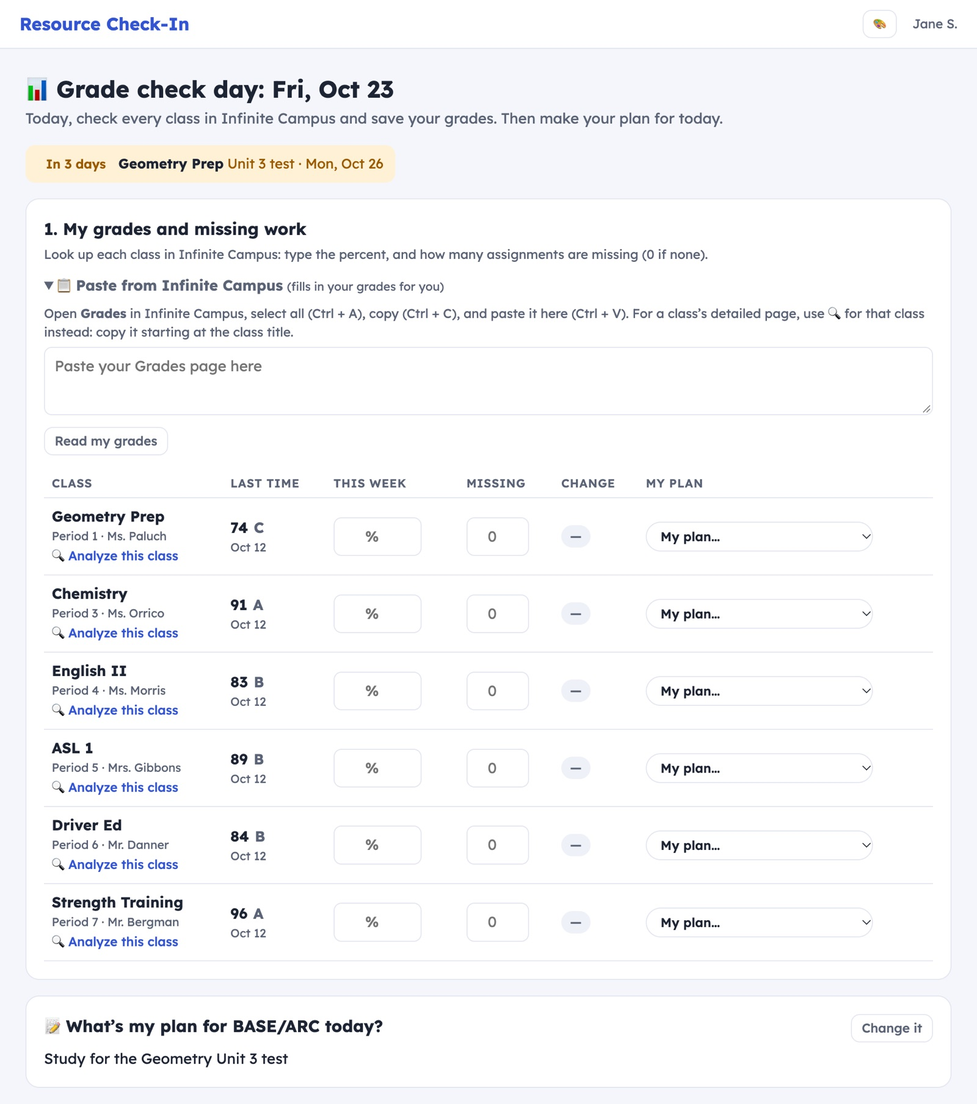
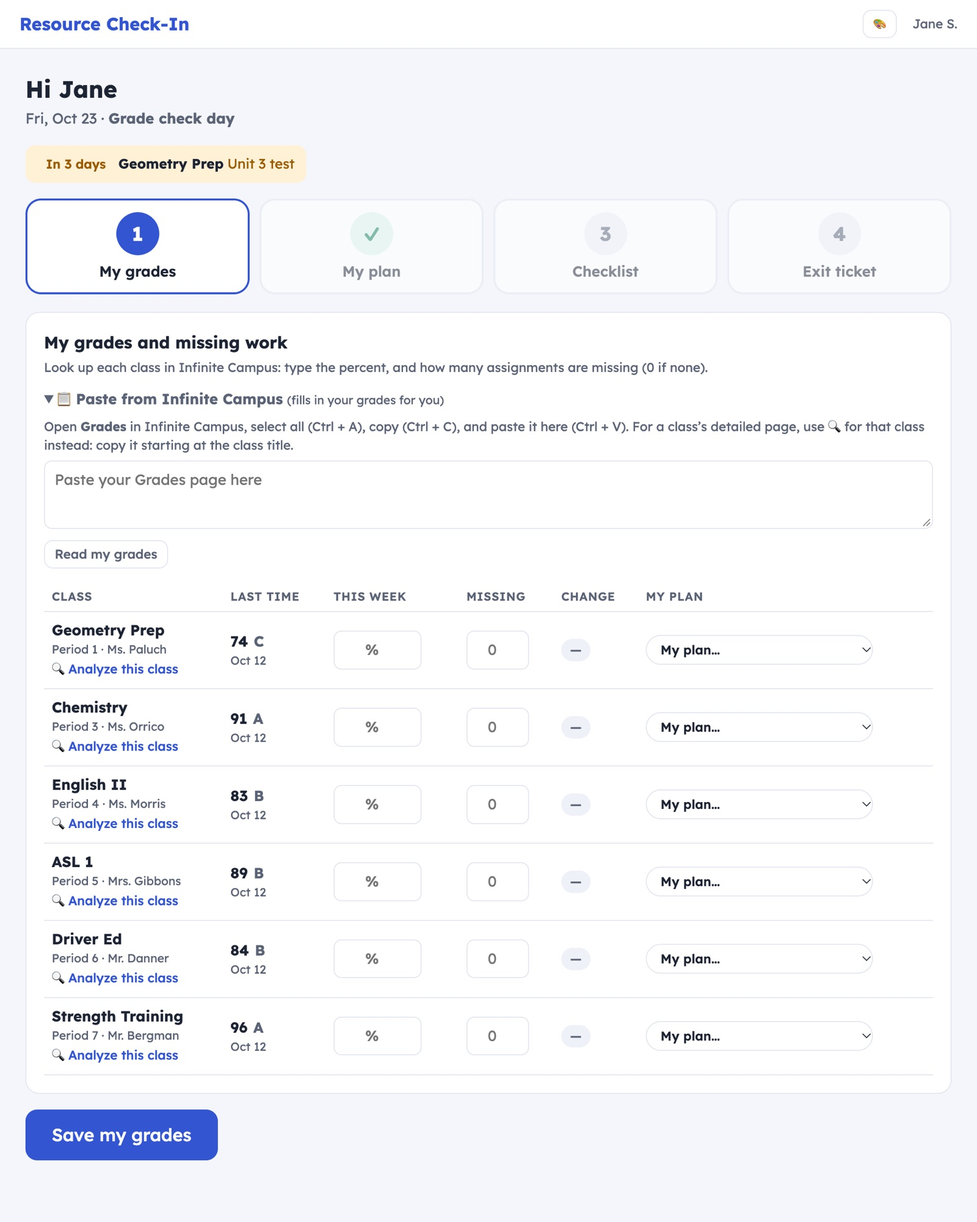
Resource Check-In showcase: step-by-step check-in, demo 1.79

diff --git a/resource/demo.html b/resource/demo.html
@@ -100,6 +100,21 @@ td small, .small { display: block; color: var(--soft); font-size: 12px; }
 .soon { display: flex; gap: 8px; flex-wrap: wrap; margin-bottom: 16px; }
 .soon .t { background: var(--warn-soft); color: var(--warn); border-radius: 10px; padding: 8px 12px; font-size: 14px; }
 .soon .t b { color: var(--ink); }
+.steps { display: flex; gap: 10px; margin: 6px 0 18px; }
+.stepb { flex: 1; min-width: 0; background: var(--card); border: 2px solid var(--line); border-radius: 16px; padding: 12px 6px 10px; text-align: center; cursor: pointer; font: inherit; color: var(--ink); }
+.stepb .n { width: 44px; height: 44px; border-radius: 50%; margin: 0 auto 6px; display: flex; align-items: center; justify-content: center; font-size: 20px; font-weight: 700; background: var(--chip); color: var(--soft); }
+.stepb .l { display: block; font-size: 15px; font-weight: 600; }
+.stepb.on { border-color: var(--brand); } .stepb.on .n { background: var(--brand); color: var(--onbrand, #fff); }
+.stepb.done .n { background: var(--up-soft); color: var(--up); } .stepb.lock { opacity: .5; }
+.btn.big { font-size: 18px; padding: 12px 26px; border-radius: 12px; }
+.stuffh { margin: 26px 0 10px; color: var(--soft); font-size: 15px; }
+.stiles { display: grid; grid-template-columns: repeat(auto-fill, minmax(165px, 1fr)); gap: 10px; }
+.stile { background: var(--card); border: 1px solid var(--line); border-radius: 12px; padding: 12px 14px; text-align: left; cursor: pointer; font: inherit; color: var(--ink); }
+.stile b { display: block; font-size: 15px; } .stile span { display: block; font-size: 13px; color: var(--soft); margin-top: 2px; }
+.stile.attn { border-color: var(--warn); background: var(--warn-soft); } .stile.attn span { color: var(--warn); }
+.stile.open { border: 2px solid var(--brand); }
+.tilepanel { margin-top: 12px; }
+@media (max-width: 560px) { .stepb .l { font-size: 12px; } .stepb .n { width: 36px; height: 36px; font-size: 17px; } .steps { gap: 6px; } .stiles { grid-template-columns: 1fr 1fr; } .ckrow { flex-wrap: wrap; } }
 .savebar { position: fixed; left: 0; right: 0; bottom: 0; background: var(--card); border-top: 1px solid var(--line); padding: 12px 16px; display: flex; justify-content: center; gap: 14px; align-items: center; z-index: 4; }
 .status { color: var(--soft); font-size: 14px; }
 .status.dirty { color: var(--warn); }
@@ -395,7 +410,7 @@ tr.lowrow td { background: var(--chip); border-bottom: 1px solid var(--line); }
    plan how they'll use resource time, and list upcoming tests. The teacher sees everyone.
    A Google Sheet + Apps Script web app. How to set it up: SETUP.md. */
 
-var VERSION = '1.78';
+var VERSION = '1.79';
 
 // Data tabs and their columns. Dates are stored as text (yyyy-mm-dd).
 var TABS = {
@@ -906,7 +921,7 @@ function api_saveProfile(p) {
       if (!day_(f.rows[f.i][SC.firstVisit])) stuSet_(f.i, 'firstVisit', today_());
       if (bd !== null && bd !== bdayCell_(f.rows[f.i][SC.bday])) { stuSet_(f.i, 'bday', bd); stuSet_(f.i, 'seen', bd ? bdayInitSeen_(bd) : ''); }
     }
-    return studentData_(email);
+    return fresh_(email);
   });
 }
 
@@ -918,7 +933,7 @@ function api_saveClasses(list) {
     saveClasses_(email, list);
     var f = stuFind_(email);
     if (f.i >= 0) stuSet_(f.i, 'checked', today_());   // they've checked their schedule
-    return studentData_(email);
+    return fresh_(email);
   });
 }
 
@@ -939,7 +954,7 @@ function api_teacherSaveGrades(email, g) {
     // a pasted class detail page: the same analysis and retake list a student's own paste saves
     var an = g.analyses || {};
     Object.keys(an).slice(0, 12).forEach(function (cls) { if (an[cls] && an[cls].summary) saveRetakes_(email, cls, an[cls].list || [], an[cls].summary); });
-    return studentData_(email);
+    return fresh_(email);
   });
 }
 
@@ -947,7 +962,7 @@ function api_teacherSaveGrades(email, g) {
 function api_teacherSaveClasses(email, list) {
   teacherOnly_();
   email = low_(email);
-  return locked_(function () { saveClasses_(email, list, myEmail_() + ' ' + today_()); return studentData_(email); });
+  return locked_(function () { saveClasses_(email, list, myEmail_() + ' ' + today_()); return fresh_(email); });
 }
 
 // "ASL Expressive Language (1); Algebra II Prep (2); …" for the Students tab's Enrollments cell.
@@ -1010,7 +1025,7 @@ function api_saveCheckin(c) {
       if (j >= 0) sheet_('Plans').getRange(j + 2, 4).setValue(steps_(c.lastSteps));
     }
     touch_(email);
-    return studentData_(email);
+    return fresh_(email);
   });
 }
 
@@ -1035,7 +1050,7 @@ function api_saveTest(t) {
     var rows = rows_('Tests'), i = t.id ? find_(rows, function (r) { return String(r[0]) === String(t.id) && low_(r[1]) === email; }) : -1;
     if (i >= 0) { row[6] = rows[i][6] === true; row[7] = rows[i][7]; sheet_('Tests').getRange(i + 2, 1, 1, row.length).setValues([row]); }
     else sheet_('Tests').appendRow(row);
-    return studentData_(email);
+    return fresh_(email);
   });
 }
 
@@ -1044,7 +1059,7 @@ function api_testDone(id, done) {
   return locked_(function () {
     var rows = rows_('Tests'), i = find_(rows, function (r) { return String(r[0]) === String(id) && low_(r[1]) === email; });
     if (i >= 0) sheet_('Tests').getRange(i + 2, 7).setValue(!!done);
-    return studentData_(email);
+    return fresh_(email);
   });
 }
 
@@ -1052,7 +1067,7 @@ function api_deleteTest(id) {
   var email = need_();
   return locked_(function () {
     rewrite_('Tests', function (r) { return !(String(r[0]) === String(id) && low_(r[1]) === email); }, []);
-    return studentData_(email);
+    return fresh_(email);
   });
 }
 
@@ -2734,7 +2749,7 @@ function api_confirmProfile(p) {
     stuSet_(f.i, 'cemail', String(p.counselorEmail || '').trim().toLowerCase());
     if (p.caseMgr) { stuSet_(f.i, 'caseMgr', clean_(p.caseMgr, 80)); stuSet_(f.i, 'caseMgrEmail', String(p.caseMgrEmail).trim().toLowerCase()); }
     stuSet_(f.i, 'profileOk', today_());
-    return studentData_(email);
+    return fresh_(email);
   });
 }
 
@@ -2872,7 +2887,7 @@ function api_flagDayPlan(email, date, flag, note) {
     var cells = [flag ? 'Yes' : '', flag ? myEmail_() + ' ' + stamp_() : '', flag ? clean_(note, 300) : ''];
     if (i >= 0) sheet_('Daily plans').getRange(i + 2, 5, 1, 3).setValues([cells]);
     else if (flag) sheet_('Daily plans').appendRow([date, email, '', '', cells[0], cells[1], cells[2]]);
-    return studentData_(email);
+    return fresh_(email);
   });
 }
 // today's plan and the recent ones (newest first), with how often the plan was followed this semester
@@ -3281,11 +3296,19 @@ function teacherOnly_() { if (!isTeacher_(myEmail_())) throw new Error('Only tea
 function myEmail_() { try { return low_(Session.getActiveUser().getEmail()); } catch (e) { return ''; } }
 function need_() { var e = myEmail_(); if (!e) throw new Error('Please sign in with your school Google account.'); return e; }
 
+// Speed (1.79): a save that ends with fresh_(email) gets the student's whole page back AFTER the lock is let go, so the next
+// student's save doesn't wait for it, and each tab is read once (it used to take about 48 reads, inside the lock).
 function locked_(fn) {
-  var lock = LockService.getScriptLock();
+  var lock = LockService.getScriptLock(), out;
   lock.waitLock(20000);
-  try { return fn(); } finally { lock.releaseLock(); }
+  try { out = fn(); } finally { lock.releaseLock(); }
+  if (out && out.__fresh) {
+    var had = ROWS_MEMO; ROWS_MEMO = {};          // read after the writes, never from rows read before them
+    try { return studentData_(out.__fresh); } finally { ROWS_MEMO = had; }
+  }
+  return out;
 }
+function fresh_(email) { return { __fresh: email }; }
 
 function ss_() { return SpreadsheetApp.getActiveSpreadsheet(); }
 function sheet_(name) { var sh = ss_().getSheetByName(name); if (!sh) { setup_(); sh = ss_().getSheetByName(name); } return sh; }
@@ -3478,6 +3501,7 @@ function weekOf_(s) { var p = s.split('-'), dow = new Date(Date.UTC(+p[0], +p[1]
   if (/checkday=1|nothing=1/.test(location.search)) window.isSchoolDay = function () { return true; };          // the demo works on a weekend too
   if (/checkday=1/.test(location.search)) setTimeout(function () { B.checkDay = B.today; go('checkin'); }, 1500);
   if (/nothing=1/.test(location.search)) setTimeout(function () { DP_EDIT = true; DP_NONE = 3; drawCheckin(); $('dpNone').scrollIntoView(); window.scrollBy(0, -200); }, 2500);
+  var tq = (location.search.match(/tile=(\w+)/) || [])[1]; if (tq) setTimeout(function () { tileOpen(tq); }, 2200);
   if (/teopen=1/.test(location.search)) setTimeout(function () { teOpen(); window.scrollTo(0, 300); }, 5000);
   window.google = { script: { run: (function mk(ok, no) {
     return new Proxy({}, { get: function (t, k) {
@@ -3644,7 +3668,7 @@ function go(v) {
 function drawNav() {
   var items = MODE === 'teacher'
     ? [['overview', 'Overview'], ['upcoming', 'Upcoming tests'], ['retakes', 'Retakes'], ['who', '🔎 Show me who'], ['seating', '🪑 Seating'], ['photos', 'Students & photos'], ['settings', '⚙ Settings'], ['me', 'Student view']]
-    : (gate() ? [] : [['checkin', 'Weekly check-in'], F('focus') ? ['focus', '⏱ Focus'] : null, F('freeTime') && (B.links || []).length ? ['free', '🎮 When I’m done'] : null, F('myWeek') ? ['week', '📅 My week'] : null, F('tests') ? ['tests', 'Tests & reminders'] : null, F('progress') ? ['history', 'My progress'] : null, F('editSchedule') ? ['schedule', 'My schedule'] : null].filter(Boolean));
+    : (gate() ? [] : [['checkin', 'Today'], F('focus') ? ['focus', '⏱ Focus'] : null, F('freeTime') && (B.links || []).length ? ['free', '🎮 When I’m done'] : null, F('myWeek') ? ['week', '📅 My week'] : null, F('tests') ? ['tests', 'Tests & reminders'] : null, F('progress') ? ['history', 'My progress'] : null, F('editSchedule') ? ['schedule', 'My schedule'] : null].filter(Boolean));
   if (MODE === 'student' && B.teacher) items.push(['teacher', 'Teacher view']);
   var pb = $('prevBar');
   pb.hidden = !PREV;
@@ -4620,27 +4644,99 @@ function lastTestIn(cls) {
 }
 function soonTests() { return D.tests.filter(function (t) { var n = daysUntil(t.date); return !t.done && n >= 0 && n <= B.warn; }); }
 
+// The check-in, one big step at a time: (grades on grade check day,) today's plan, the checklist, the exit ticket.
+// Everything else waits in small "My stuff" tiles below, each opening its card when tapped.
+var STEP = null, GSUB = 0, TILE = null, CK_AFTER = null;          // STEP = { k, wasDone } when the student picked a step
+function checkMode() { return !!B.checkDay && B.today >= B.checkDay && graded().length > 0; }          // grade check day (or later that week)
+function stepList() {
+  var s = [], sd = isSchoolDay();
+  if (checkMode()) s.push({ k: 'grades', label: 'My grades', req: true });
+  if (F('dayPlan') && sd) s.push({ k: 'plan', label: 'My plan', req: true });
+  if (F('checklist') && sd && (B.checkItems || []).length) s.push({ k: 'check', label: 'Checklist' });
+  if (F('exit') && sd) s.push({ k: 'exit', label: 'Exit ticket' });
+  return s;
+}
+function stepDone(k) {
+  if (k === 'grades') return gradesDone() && GSUB !== 1;
+  if (k === 'plan') return !!(D.dayPlan && D.dayPlan.today && D.dayPlan.today.plan);
+  if (k === 'check') { var c = D.checklist || {}, dn = c.done || [], nt = c.noTime || []; return dn.length > 0 && B.checkItems.every(function (t) { return dn.indexOf(t) >= 0 || nt.indexOf(t) >= 0; }); }
+  if (k === 'exit') return !!D.exit;
+  return false;
+}
+function stepLock(list, i) { for (var j = 0; j < i; j++) if (list[j].req && !stepDone(list[j].k)) return j + 1; return 0; }          // the step number to finish first, or 0
+function stepGo(k) {
+  var list = stepList(), i = list.map(function (s) { return s.k; }).indexOf(k), lk = i < 0 ? 0 : stepLock(list, i);
+  if (lk) return toast('Finish step ' + lk + ' first');
+  if (DIRTY && !confirm('You have changes that are not saved. Leave without saving?')) return;
+  setDirty(false); STEP = { k: k, wasDone: stepDone(k) }; if (k !== 'grades') GSUB = 0; drawCheckin(); window.scrollTo(0, 0);
+}
+function weeklyOn() { return F('focus') || (CK.last && F('lookBack')) || F('talk') || F('plan') || F('help'); }
+function ckSaveBtn(label, after) { CK_AFTER = after || null; return '<div class="row" style="margin-top:4px"><button class="btn primary big" id="ckSave">' + label + '</button><span class="status" id="status"></span></div>'; }
 function drawCheckin() {
   if (!CK) initCK();
-  var tp = thisPlan(), done = graded().some(function (c) { return (D.grades[c.name] || {})[B.week] !== undefined; }) || !!tp;
-  var soon = soonTests();
-  var on = weekDay(D, B.week);
-  var h = '<h1>Weekly check-in: ' + fmtDay(B.today) + '</h1><p class="sub">' + (done ? '<span class="badge up">✓ Checked in' + (on !== B.week ? ' ' + fmtDay(on) : '') + '</span> You can update it any time this week.' : 'Check your grades, then make your plan for resource time.') + '</p>';
-  if (soon.length) h += '<div class="soon">' + soon.map(function (t) { return '<div class="t">' + countdown(t.date) + ' <b>' + esc(t.cls) + '</b> ' + esc(t.what) + ' · ' + fmtDay(t.date) + '</div>'; }).join('') + '</div>';
-  var num = 0, sec = function () { return ++num + '. '; };
-  if (needGrades()) {          // grade check day: the grade paste first, then today's plan
-    h = '<h1>📊 Grade check day: ' + fmtDay(B.today) + '</h1><p class="sub">Today, check every class in Infinite Campus and save your grades. Then make your plan for today.</p>' + h.replace(/^<h1>.*?<\/p>/, '') +
-      gradesCard(sec) + '<div class="savebar"><span class="status" id="status"></span><button class="btn primary" id="ckSave">Save my grades</button></div>' + dayPlanCard();
-    $('main').innerHTML = h; $('ckSave').onclick = saveCheckin;
-    var ic = document.querySelector('#icBox details'); if (ic) ic.open = true;          // the paste box starts open
-    return;
-  }
-  if (needDayPlan()) { $('main').innerHTML = h + dayPlanCard(); var ta = $('dpText'); if (ta) ta.focus(); return; }
-  h += iepCard() + winsCard() + teamCard() + dayPlanCard() + detailCard() + gradeGoalCard() + checklistCard() + exitCard() + myGoalCard() + missingCard() + finalsCard() + accomCard();
-
-  h += gradesCard(sec);
+  var list = stepList(), keys = list.map(function (s) { return s.k; });
+  if (STEP && (keys.indexOf(STEP.k) < 0 || (!STEP.wasDone && stepDone(STEP.k)))) STEP = null;          // a step just finished: on to the next one
+  var cur = STEP ? STEP.k : (list.filter(function (s, i) { return !stepDone(s.k) && !stepLock(list, i); })[0] || { k: 'done' }).k;
+  var soon = soonTests(), name = String(D.profile.name || '').split(' ')[0];
+  var h = '<h1>' + (name ? 'Hi ' + esc(name) : 'Today') + '</h1><p class="sub">' + fmtDay(B.today) + (keys[0] === 'grades' ? ' · <b>Grade check day</b>' : '') + '</p>';
+  if (soon.length) h += '<div class="soon">' + soon.map(function (t) { return '<div class="t">' + countdown(t.date) + ' <b>' + esc(t.cls) + '</b> ' + esc(t.what) + '</div>'; }).join('') + '</div>';
+  if (list.length) h += '<div class="steps">' + list.map(function (s, i) {
+    var dn = stepDone(s.k), lk = stepLock(list, i);
+    return '<button class="stepb' + (s.k === cur ? ' on' : '') + (dn ? ' done' : '') + (lk ? ' lock' : '') + '" onclick="stepGo(\'' + s.k + '\')"><span class="n">' + (dn ? '✓' : i + 1) + '</span><span class="l">' + s.label + '</span></button>';
+  }).join('') + '</div>';
+  var nx = function () {          // the big "next" button under a finished step
+    var i = keys.indexOf(cur), n = list.slice(i + 1).filter(function (s) { return !stepDone(s.k); })[0];
+    return stepDone(cur) ? '<div class="row" style="justify-content:flex-end;margin-top:-4px"><button class="btn primary big" onclick="' + (n ? 'stepGo(\'' + n.k + '\')' : 'STEP={k:\'done\'};drawCheckin()') + '">' + (n ? 'Next: ' + n.label + ' →' : 'Finish →') + '</button></div>' : '';
+  };
+  var after = null;
+  if (cur === 'grades') {
+    if (GSUB === 1) { h += weeklyCards() + ckSaveBtn('Save my plan for the week', function () { GSUB = 0; STEP = null; }); after = 'week'; }
+    else {
+      h += gradesCard(function () { return ''; }) + ckSaveBtn(gradesDone() ? 'Save my grades' : 'Save my grades', weeklyOn() ? function () { GSUB = 1; STEP = { k: 'grades', wasDone: true }; } : null) + (gradesDone() ? nx() : '');
+      after = 'grades';
+    }
+  } else if (cur === 'plan') h += dayPlanCard() + nx();
+  else if (cur === 'check') h += checklistCard() + nx();
+  else if (cur === 'exit') h += exitCard() + nx();
+  else h += list.length ? '<div class="card alldone"><h2>🎉 All done for today</h2><p style="margin:6px 0 0">Nice work. Your things are below' + (F('focus') ? ', or start the <a href="#" onclick="go(\'focus\');return false">⏱ focus timer</a>' : '') + '.</p></div>'
+    : '<div class="card"><h2>No school today</h2><p class="small" style="margin:4px 0 0">Your things are below.</p></div>';
+  if (!gate()) h += myStuff(list);
+  $('main').innerHTML = h;
+  if (after === 'grades') { var ic = document.querySelector('#icBox details'); if (ic && !gradesDone()) ic.open = true; }
+  if (TILE === 'grades' || TILE === 'week' || after) drawSugg();
+  if ($('ckSave')) $('ckSave').onclick = saveCheckin;
+  if (cur === 'plan' && !stepDone('plan')) { var ta = $('dpText'); if (ta) ta.focus(); }
+}
+// My stuff: one small tile per card, with a one-line status; tapping opens the card under the tiles.
+function myStuff(list) {
+  var e = D.ef || {}, t = [], inSteps = list.some(function (s) { return s.k === 'grades'; });
+  var w = F('wins') ? myWins() : []; if (w.length) t.push(['wins', '🎉 My wins', w.length + ' new', true, winsCard]);
+  var iep = D.profile.iep; if (iep && iep.meet && iep.meet >= B.today) t.push(['iep', '📌 IEP meeting', shortDay(iep.meet), daysUntil(iep.meet) <= 7, iepCard]);
+  if (detailCard()) { var need = detailNeed().length, all = graded().length; t.push(['detail', '🔍 Detailed grades', need ? (all - need) + ' of ' + all + ' this week' : 'All done ✓', need > 0, detailCard]); }
+  if (!inSteps && graded().length) t.push(['grades', '📊 My grades', gradesDone() ? 'Checked this week ✓' : 'Check them any time', false, function () { return gradesCard(function () { return ''; }) + ckSaveBtn('Save my grades'); }]);
+  if (graded().length && weeklyOn()) t.push(['week', '🗓 Plan for the week', thisPlan() ? 'Saved ✓' : 'Not made yet', false, function () { return weeklyCards() + ckSaveBtn('Save my plan for the week'); }]);
+  var mNow = 0; Object.keys(e.missingNow || {}).forEach(function (c) { mNow += e.missingNow[c].length; });
+  if (missingCard()) t.push(['missing', '📝 Missing work', mNow ? mNow + ' assignment' + (mNow === 1 ? '' : 's') : 'None ✓', mNow > 0, missingCard]);
+  if (gradeGoalCard()) { var gg = D.gradeGoals || {}, set = graded().filter(function (c) { return gg[c.name] !== undefined; }), ok = set.filter(function (c) { var n = nowGrade(D, c.name); return n !== null && n >= gg[c.name]; }).length; t.push(['goals', '🎯 Grade goals', set.length ? ok + ' of ' + set.length + ' on track' : 'Pick your goals', !set.length, gradeGoalCard]); }
+  if (finalsCard()) { var fd = (B.finalSched || []).map(function (s) { return s.date; }).sort()[0]; t.push(['finals', '📅 Finals', fd ? (daysUntil(fd) <= 0 ? 'This week' : 'In ' + daysUntil(fd) + ' days') : 'Plan ahead', false, finalsCard]); }
+  if (teamCard()) t.push(['team', '🤝 My support team', 'Who to ask', false, teamCard]);
+  if (accomCard()) t.push(['accom', '🧰 Accommodations', 'Tap when you use one', false, accomCard]);
+  if (myGoalCard()) t.push(['mygoal', '⭐ My goal', 'How I’m doing', false, myGoalCard]);
+  if (!t.length) return '';
+  var open = t.filter(function (x) { return x[0] === TILE; })[0];
+  return '<h2 class="stuffh">My stuff</h2><div class="stiles">' + t.map(function (x) {
+    return '<button class="stile' + (x[3] ? ' attn' : '') + (x[0] === TILE ? ' open' : '') + '" onclick="tileOpen(\'' + x[0] + '\')"><b>' + x[1] + '</b><span>' + esc(x[2]) + '</span></button>';
+  }).join('') + '</div>' + (open ? '<div class="tilepanel" id="tilePanel">' + open[4]() + '<button class="btn link" onclick="tileOpen(\'' + open[0] + '\')">▲ Close</button></div>' : '');
+}
+function tileOpen(k) {
+  if (DIRTY && !confirm('You have changes that are not saved. Leave without saving?')) return;
+  setDirty(false); TILE = TILE === k ? null : k; if (TILE === 'grades' || TILE === 'week') CK = null;
+  drawCheckin(); var p = $('tilePanel'); if (p) p.scrollIntoView({ behavior: 'smooth', block: 'start' });
+}
+// the weekly part: what to focus on, last week, talking with teachers, the plan for resource time
+function weeklyCards() {
+  var h = '', num = 0, sec = function () { return ++num + '. '; };
   if (F('focus')) h += '<div class="card focuscard"><h2>' + sec() + 'What to focus on this week</h2><div id="focusBox"></div></div>';
-
   if (CK.last && F('lookBack')) {
     var lp = CK.last;
     h += '<div class="card"><h2>' + sec() + 'Look back at last week</h2><p class="hint">Your plan from the week of ' + fmtDay(lp.week) + '. Check off what you did.</p>' +
@@ -4662,10 +4758,7 @@ function drawCheckin() {
       '<div id="steps">' + stepRows() + '</div><button class="btn small" onclick="stepAdd()">+ Add a step</button>' : '') +
     (F('help') ? (F('plan') ? '<p style="margin:16px 0 6px"><b>What do I need help with from my resource teacher?</b></p>' : '') + '<textarea maxlength="1000" placeholder="For example: I don’t understand the chemistry homework on moles." oninput="CK.plan.help=this.value;setDirty(true)">' + esc(CK.plan.help) + '</textarea>' : '') + '</div>';
 
-  h += '<div class="savebar"><span class="status" id="status" data-saved="' + (tp ? 'Saved' : '') + '">' + (tp ? 'Saved' : '') + '</span><button class="btn primary" id="ckSave">Save my check-in</button></div>';
-  $('main').innerHTML = h;
-  drawSugg();
-  $('ckSave').onclick = saveCheckin;
+  return h;
 }
 // the grades card (the Infinite Campus paste, then a row per class)
 function gradesCard(sec) {
@@ -4828,7 +4921,7 @@ function exitCard() {
 }
 function exSave() {
   var f = $('exF').value.trim(), n = $('exN').value.trim(); if (!f && !n) return alert('Write what you finished and what’s next.');
-  call('api_saveExit', f, n).then(function (x) { D.exit = x; EX_EDIT = false; $('exCard').outerHTML = exitCard(); toast('Exit ticket saved'); }).catch(oops);
+  call('api_saveExit', f, n).then(function (x) { D.exit = x; EX_EDIT = false; toast('Exit ticket saved'); if (VIEW === 'checkin') drawCheckin(); else $('exCard').outerHTML = exitCard(); }).catch(oops);
 }
 
 /* ---------- student: today's checklist (in resource), My goal, missing assignments by class ---------- */
@@ -4859,7 +4952,7 @@ function ckSet(k, how) {
     call('api_saveChecklist', B.checkItems.map(function (x) { return { text: x, done: done.indexOf(x) >= 0, noTime: noTime.indexOf(x) >= 0 }; })).then(function (r) {
       var all = r && r.done.length > 0 && r.done.length + r.noTime.length >= r.total;
       D.checklist = r; var card = $('ckCard'); if (card) card.outerHTML = checklistCard();
-      if (all) toast('Checklist done for today ✓');
+      if (all) { toast('Checklist done for today ✓'); if (VIEW === 'checkin') { STEP = { k: 'check', wasDone: true }; drawCheckin(); } }
     }).catch(oops);
   }, 700);
 }
@@ -5095,7 +5188,7 @@ function saveCheckin() {
   if (empty.length) return alert('It’s grade check day: type this week’s grade for every class. Still empty: ' + empty.map(function (c) { return c.name; }).join(', ') + '. (If a class has no grade in Infinite Campus yet, ask your teacher.)');
   var need = !F('lowWhy') ? [] : graded().filter(function (c) { var x = CK.lows[c.name]; return isLow(CK.grades[c.name]) && (!x.why.trim() || (!x.actions.length && !x.details.trim())); });
   if (need.length) {
-    var i = graded().indexOf(need[0]); $('lr' + i).scrollIntoView({ behavior: 'smooth', block: 'center' });
+    var i = graded().indexOf(need[0]), lr = $('lr' + i); if (lr) lr.scrollIntoView({ behavior: 'smooth', block: 'center' });
     return alert('Your ' + need.map(function (c) { return c.name; }).join(' and ') + ' grade' + (need.length > 1 ? 's are' : ' is') + ' under ' + B.low + '%. Explain why and pick your plan to bring it up, then save.');
   }
   var lows = {}; graded().forEach(function (c) { if (isLow(CK.grades[c.name])) lows[c.name] = CK.lows[c.name]; });
@@ -5103,7 +5196,7 @@ function saveCheckin() {
   var plan = { focus: CK.plan.focus, steps: CK.plan.steps.filter(function (s) { return s.text.trim(); }), help: CK.plan.help, followed: CK.plan.followed, lookBack: CK.plan.lookBack };
   var missing = null; if (F('missing')) { missing = {}; graded().forEach(function (c) { missing[c.name] = CK.missing[c.name]; }); }
   call('api_saveCheckin', { talked: CK.talked.yes === null ? null : CK.talked, grades: CK.grades, lows: F('lowWhy') ? lows : {}, missing: missing, cplans: F('cplan') ? CK.cplan : null, plan: plan, lastSteps: CK.last ? CK.last.steps : null, lastWeek: CK.last ? CK.last.week : '' })
-    .then(function (d) { var was = !!gate(); D = d; setDirty(false); CK = null; toast(was ? 'Grades saved' : 'Check-in saved'); if (was && !gate()) go('checkin'); else drawCheckin(); })
+    .then(function (d) { var was = !!gate(), fn = CK_AFTER; D = d; setDirty(false); CK = null; CK_AFTER = null; toast(was ? 'Grades saved' : 'Saved'); if (fn) fn(); if (was && !gate()) go('checkin'); else drawCheckin(); })
     .catch(function (e) { oops(e); btn.disabled = false; });
 }
 

diff --git a/resource/index.html b/resource/index.html
@@ -128,17 +128,15 @@ footer { padding-block: 48px 40px; color: var(--soft); font-size: .9rem; }
 
     <div class="feat">
       <div class="txt">
-        <h3>The weekly check-in</h3>
-        <p>One page, top to bottom, in the order a resource period goes.</p>
+        <h3>Big, obvious steps</h3>
+        <p>Every day the check-in is a row of numbered steps, one on the screen at a time: today’s plan, the checklist, the exit ticket. A big Next button moves them on, and finished steps turn green.</p>
         <ul>
-          <li>A required plan for today’s resource time, first thing when they open the link (with ideas from their missing work and tests)</li>
-          <li>“My wins” when a grade goes up or missing work is cleared</li>
-          <li>Their IEP meeting date, case manager, counselor and assistant principal</li>
+          <li>Everything else waits in small “My stuff” tiles: wins, IEP meeting, missing work, grade goals, finals, support team, accommodations</li>
+          <li>Tiles that need attention turn amber</li>
           <li>Grades and missing work for every class, pasted from Infinite Campus</li>
-          <li>A short daily checklist and an exit ticket</li>
         </ul>
       </div>
-      <figure class="shot tall"><img src="img/checkin.jpg" alt="A student's weekly check-in: IEP meeting countdown, wins, support team, today's plan and this week's detailed grades" loading="lazy"><figcaption>Marcus’s check-in. The app works out his counselor and assistant principal from his grade and email.</figcaption></figure>
+      <figure class="shot tall"><img src="img/checkin.jpg" alt="A student's check-in: four numbered steps, the checklist open, and My stuff tiles below" loading="lazy"><figcaption>Marcus’s check-in, on step 3.</figcaption></figure>
     </div>
 
     <div class="feat">
